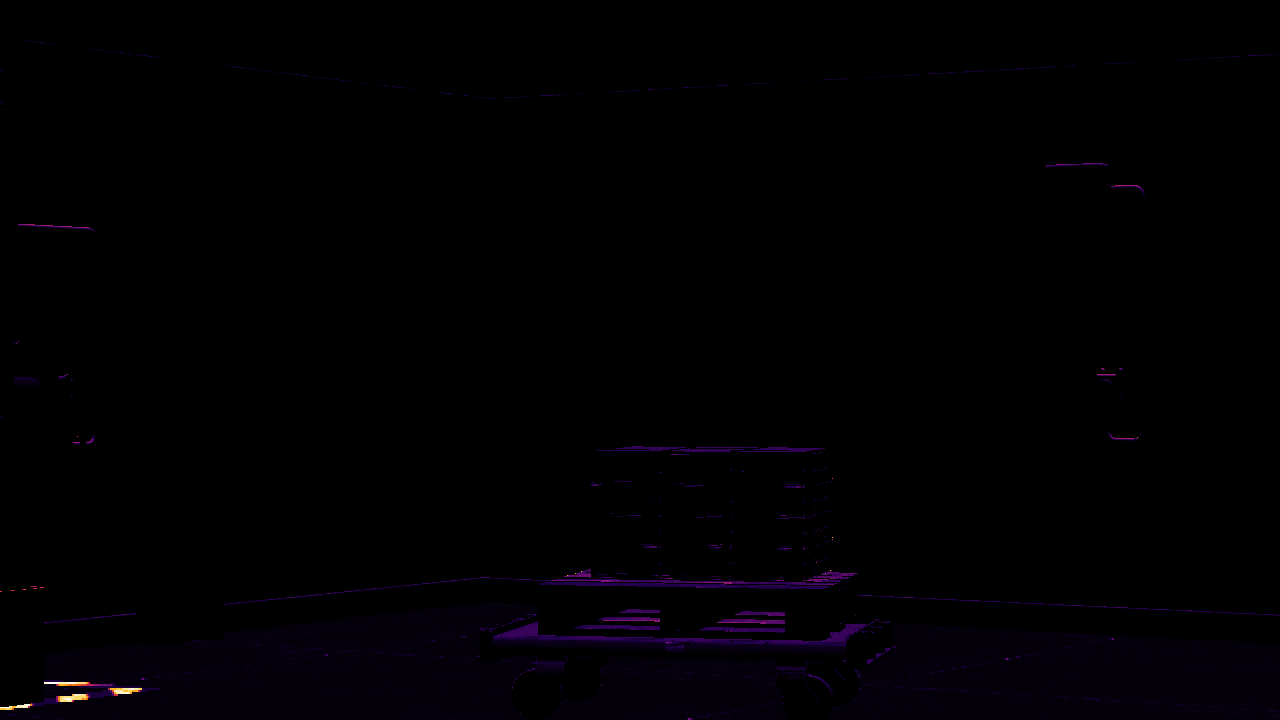
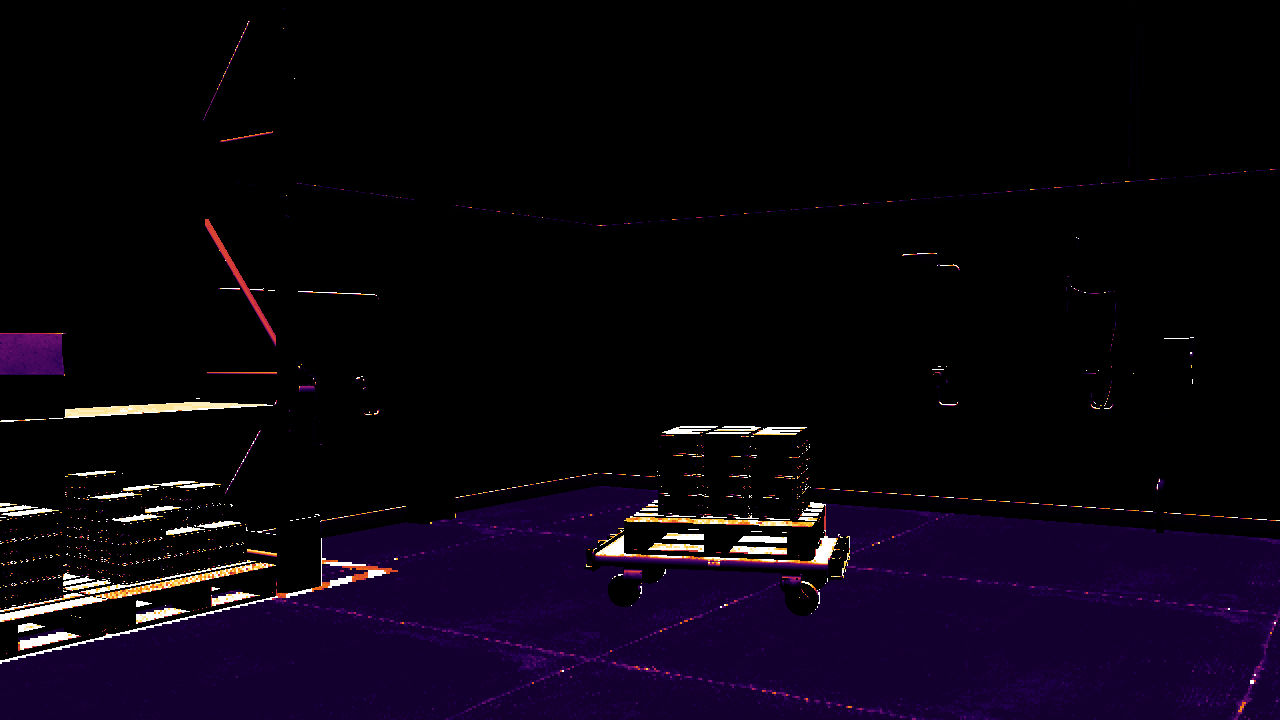
changed readme with new images

diff --git a/README.md b/README.md
@@ -25,7 +25,7 @@ palette, so brighter (yellow/white) means more signal.
 
 | VIS | NIR_ACTIVE | SWIR_ACTIVE |
 |---|---|---|
-| ![vis](docs/images/visnolight.png) | ![nir](docs/images/niractivenolight.png) | ![swir](docs/images/swiractivenolight.png) |
+| ![vis](docs/images/visnolight.png) | ![nir](docs/images/niranolight.png) | ![swir](docs/images/swirnolight.png) |
 | 400–700 nm, reflective | 700–1000 nm, reflective | 1000–2500 nm, reflective |
 
 | MWIR | LWIR |